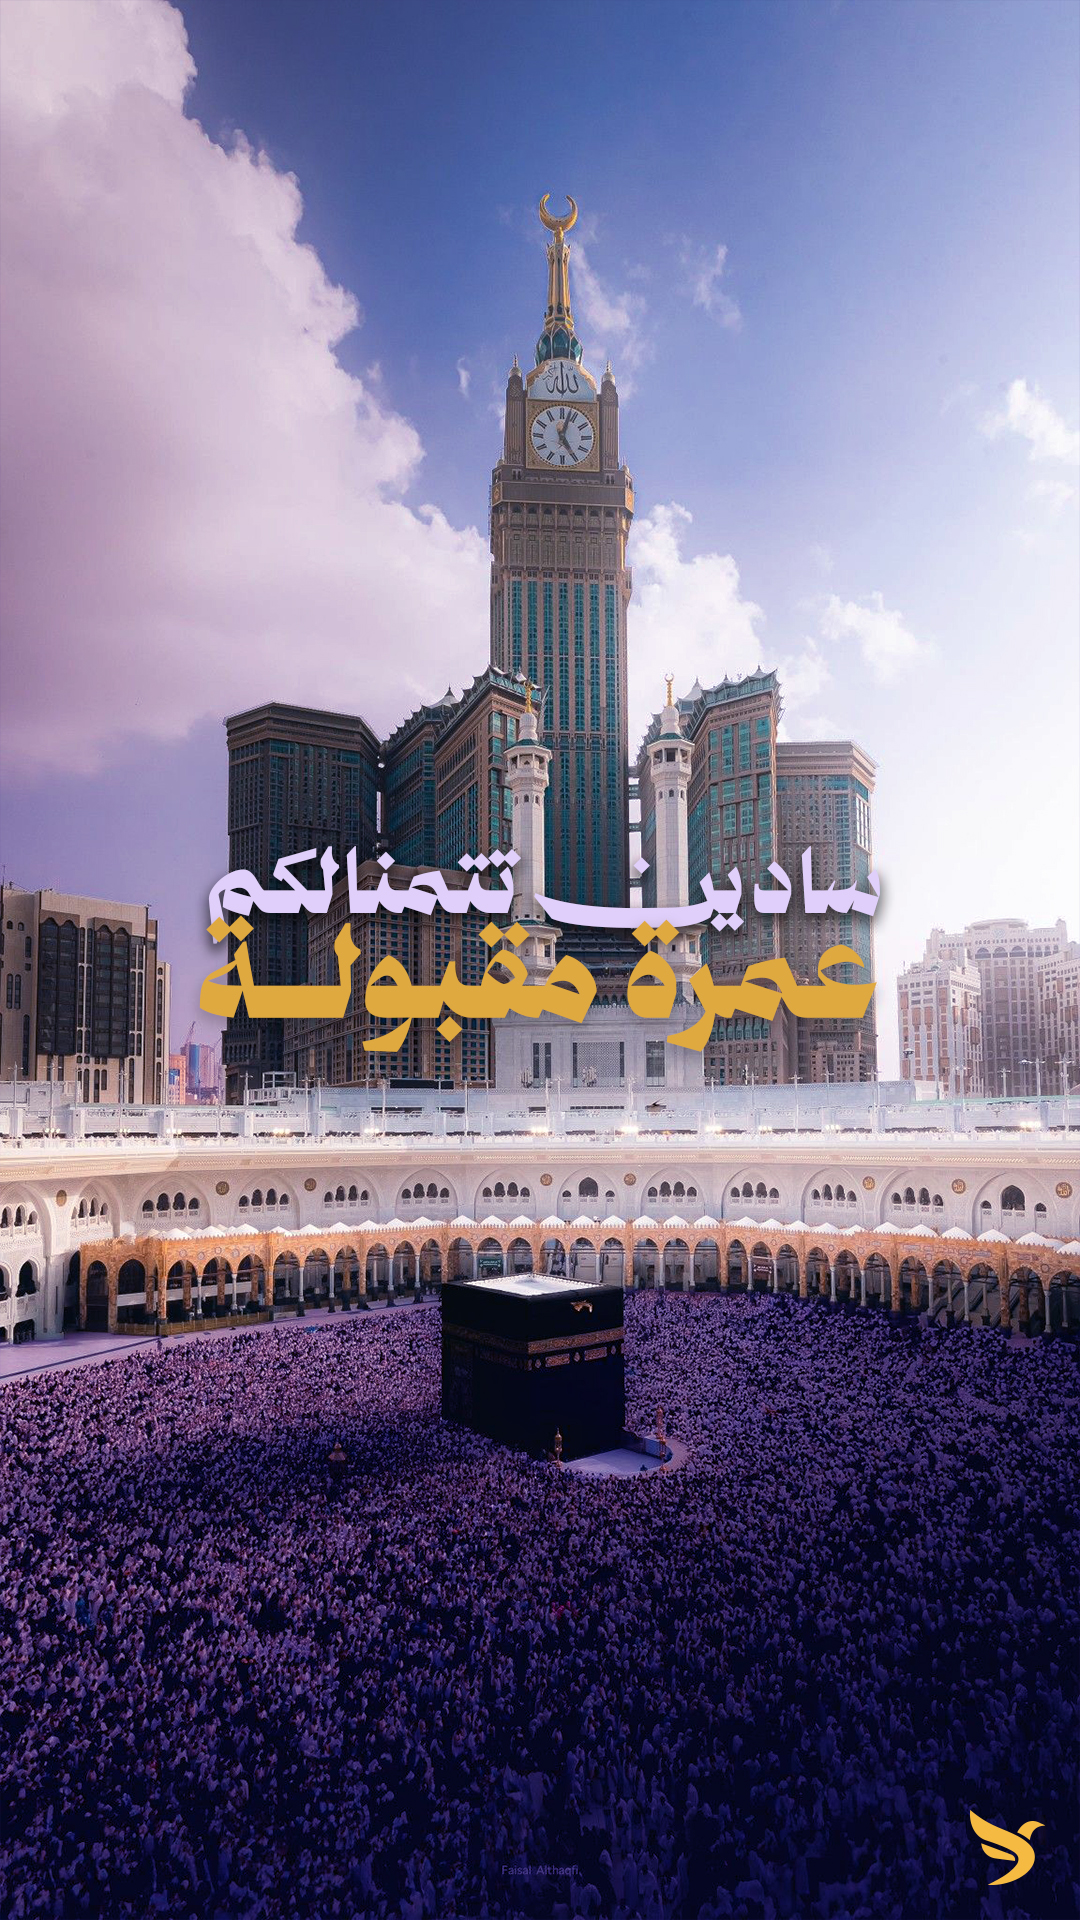
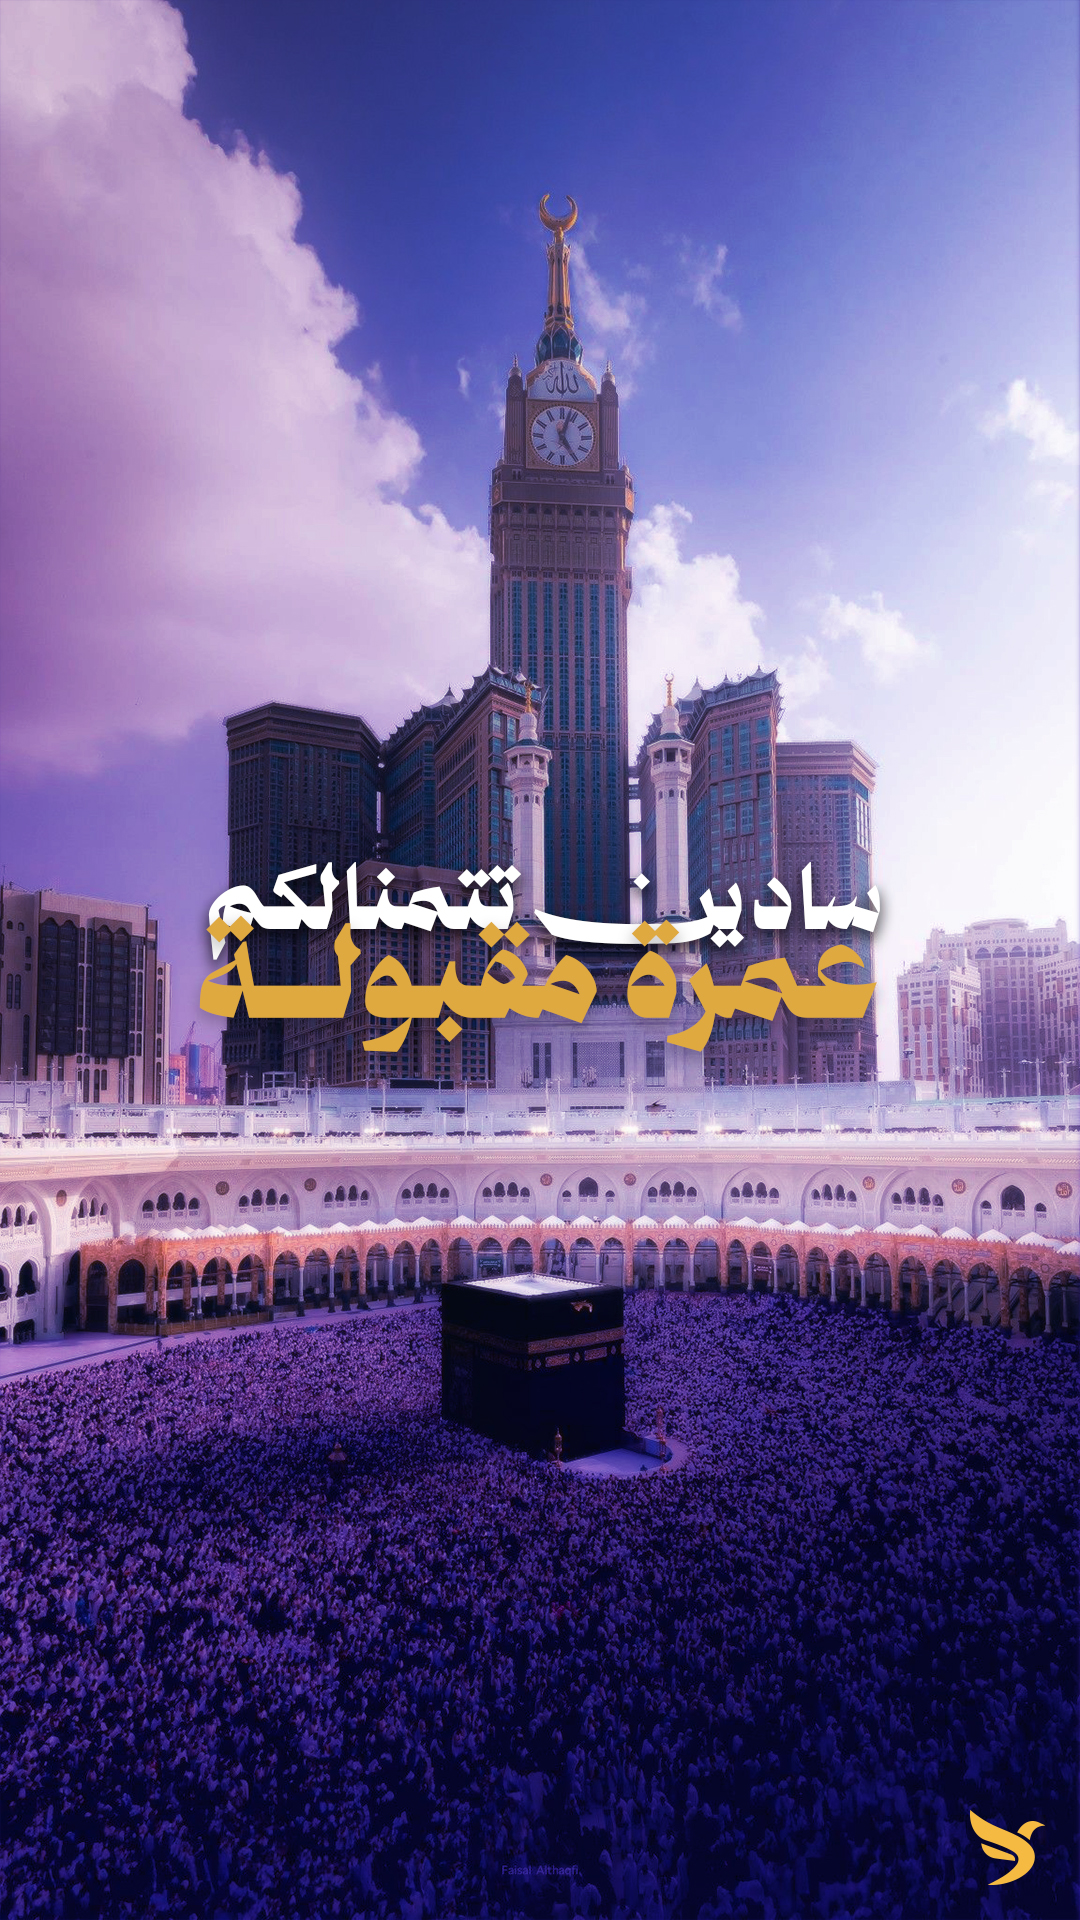
Use user's photo as the full slide background for Luggage Tag & Pickup Sign
- Renamed user-supplied "Applications · Luggage Tag & Pickup Sign.jpg"
  to URL-safe app-luggage-pickup.jpg.
- Slide s-38 now wears the image as its full-bleed background via a
  new .slide.slide-bg-luggage rule (cover, center, with a subtle dark
  fade strip only at the very top and very bottom for topbar/botbar
  legibility — middle 70% of the photo is untouched).
- Removed: the CSS-drawn luggage tag mockup, the CSS-drawn pickup
  signage mockup, the headline "The objects you see at the airport.",
  the lead paragraph, and the centered caption labels. The provided
  image already carries the tag + sign mockups and copy, so the slide
  is now just chrome + photo.
- Topbar / botbar text gets a soft text-shadow so it stays readable
  against whatever brightness the photo has at the edges.

diff --git a/sadine-brand/index.html b/sadine-brand/index.html
@@ -749,6 +749,18 @@ body[data-lang="fr"] .lang-fr{display:inline}
   background:rgba(0,0,0,.25);min-height:280px;
 }
 .env .lab{position:absolute;top:18px;left:22px;font-family:var(--display);font-weight:500;font-size:10px;letter-spacing:.32em;text-transform:uppercase;color:var(--gold)}
+/* Full-slide photographic background (luggage + pickup sign) — image carries the layout */
+.slide.slide-bg-luggage{
+  background:
+    linear-gradient(180deg, rgba(15,5,33,.45) 0%, rgba(15,5,33,0) 14%, rgba(15,5,33,0) 84%, rgba(15,5,33,.7) 100%),
+    url('assets/app-luggage-pickup.jpg') center/cover no-repeat,
+    #15082B !important;
+}
+.slide.slide-bg-luggage .topbar .cap,
+.slide.slide-bg-luggage .botbar .pg{
+  text-shadow:0 1px 12px rgba(15,5,33,.7);
+}
+
 /* Photographic env panels — full-bleed background image + bottom fade for label legibility */
 .env.photo-airport,
 .env.photo-vehicle{
@@ -2591,39 +2603,11 @@ html,body{overflow-x:hidden}
 </section>
 
 <!-- ─────────── 35 · LUGGAGE TAG & PICKUP SIGNAGE ─────────── -->
-<section id="s-38" class="slide dark">
+<section id="s-38" class="slide dark slide-bg-luggage">
   <div class="frame">
     <div class="topbar">
       <div class="id"><span class="dot"></span><span class="cap mute">Applications · Luggage Tag &amp; Pickup Sign</span></div>
       <span class="cap mute pgnum"></span>
-    </div>
-
-    <div style="margin-top:32px;display:flex;justify-content:space-between;align-items:flex-end;gap:48px">
-      <h2 class="h1">The objects you<br/>see at the airport.</h2>
-      <p class="lead" style="max-width:380px">A leather-strapped luggage tag travelling alongside the suitcase. A leather-portfolio pickup sign waiting in arrivals. Both wordless from a distance, instantly recognized up close.</p>
-    </div>
-
-    <div style="margin-top:48px;flex:1;display:grid;grid-template-columns:1fr 1.6fr;gap:64px;align-items:center">
-      <div class="center" style="gap:24px">
-        <div class="tag" style="width:240px;height:360px;transform:rotate(-3deg)">
-          <svg class="icon icon-gold icn" viewBox="0 0 74.83 74.1" style="width:54px"><use href="#sadine-icon"/></svg>
-          <span class="lab">Sadine · Luggage</span>
-          <span class="num">SDN · 1042</span>
-        </div>
-        <span class="cap mute">Luggage tag · 60 × 110 mm</span>
-      </div>
-
-      <div class="center" style="gap:24px">
-        <div class="sign" style="width:520px;transform:rotate(1.2deg)">
-          <div class="top">
-            <span class="meta">Tunis Airport · Pickup</span>
-            <svg class="icon icon-gold icn" viewBox="0 0 74.83 74.1" style="width:36px"><use href="#sadine-icon"/></svg>
-          </div>
-          <span class="name">Mr. Ben Aïcha</span>
-          <span class="meta">Sadine Tours · Suite 02A · 22:40</span>
-        </div>
-        <span class="cap mute">Pickup signage · A3 · held in leather portfolio</span>
-      </div>
     </div>
 
     <div class="botbar"><span class="pg">Sadine Tours · Travel Touchpoints</span><span class="pg pgnum total"></span></div>